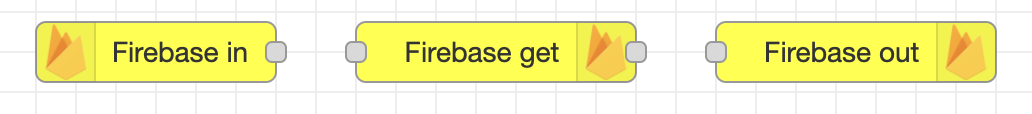
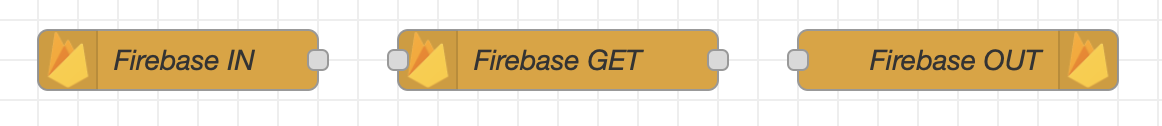
0.0.2 (#1)

diff --git a/src/database.js b/src/database.js
@@ -1,4 +1,4 @@
-const { initializeApp } = require("firebase/app");
+const { deleteApp, initializeApp } = require("firebase/app");
 const { getAuth, signInAnonymously, signInWithEmailAndPassword } = require("firebase/auth");
 const { getDatabase } = require("firebase/database");
 
@@ -16,9 +16,15 @@ module.exports = function (RED) {
 
 		const auth = getAuth(app);
 
-		function setNodeStatus(state) {
+		function setNodesConnected() {
 			for (const n of node.nodes) {
-				n.status(state);
+				n.status({ fill: "green", shape: "dot", text: "connected" });
+			}
+		}
+
+		function setNodesDisconnected() {
+			for (const n of node.nodes) {
+				n.status({ fill: "red", shape: "dot", text: "disconnected" });
 			}
 		}
 
@@ -26,27 +32,38 @@ module.exports = function (RED) {
 			// TODO: Add other authentication methods
 			switch (config.authType) {
 				case "anonymous":
-					signInAnonymously(auth).then(() => setNodeStatus({ fill: "green", shape: "dot", text: "connected" }));
+					signInAnonymously(auth).then(() => setNodesConnected());
 					break;
 				case "email":
 					// NOTE: Fails with an error if the email address and password do not match!
 					signInWithEmailAndPassword(auth, this.credentials.email, this.credentials.password).then(() =>
-						setNodeStatus({ fill: "green", shape: "dot", text: "connected" })
+						setNodesConnected()
 					);
 					break;
 			}
 		} catch (error) {
 			node.error(error);
-			setNodeStatus({ fill: "red", shape: "dot", text: "disconnected" });
+			setNodesDisconnected();
 		}
 
 		const database = getDatabase(app);
 
 		this.app = app;
 		this.db = database;
+
+		node.on("close", function (done) {
+			if (!node.app) {
+				done();
+				return;
+			}
+
+			deleteApp(node.app)
+				.then(() => done())
+				.catch((error) => done(error));
+		});
 	}
 
-	RED.nodes.registerType("database", DatabaseNode, {
+	RED.nodes.registerType("database-config", DatabaseNode, {
 		credentials: {
 			apiKey: { type: "text" },
 			email: { type: "text" },

diff --git a/src/firebase-out.js b/src/firebase-out.js
@@ -7,37 +7,43 @@ module.exports = function (RED) {
 		this.database = RED.nodes.getNode(config.database);
 		this.database.nodes.push(this);
 
-		this.on("input", function (msg) {
-			if (config.pathType === "msg") {
-				if (msg[config.path] === undefined) {
-					this.error("The msg containing the PATH do not exist!");
-					return;
-				}
-				if (typeof msg[config.path] !== "string") {
-					this.error("PATH must be a string!");
-					return;
-				}
-			}
-
+		this.on("input", function (msg, send, done) {
 			const path = config.pathType === "msg" ? msg[config.path] : config.path;
+
+			if (path === undefined) {
+				done("The msg containing the PATH do not exist!");
+				return;
+			}
+			if (!path) {
+				done("PATH must be non-empty string!");
+				return;
+			}
+			if (typeof path !== "string") {
+				done("PATH must be a string!");
+				return;
+			}
+			if (path.match(/[.#$\[\]]/g)) {
+				done(`PATH must not contain ".", "#", "$", "[", or "]"`);
+				return;
+			}
 
 			try {
 				switch (config.queryType) {
 					case "set":
-						set(ref(this.database.db, path), msg.payload);
+						set(ref(this.database.db, path), msg.payload).then(() => done());
 						break;
 					case "push":
-						push(ref(this.database.db, path), msg.payload);
+						push(ref(this.database.db, path), msg.payload).then(() => done());
 						break;
 					case "update":
-						update(ref(this.database.db, path), msg.payload);
+						update(ref(this.database.db, path), msg.payload).then(() => done());
 						break;
 					case "remove":
-						remove(ref(this.database.db, path));
+						remove(ref(this.database.db, path)).then(() => done());
 						break;
 				}
 			} catch (error) {
-				this.warn(error);
+				done(error);
 			}
 		});
 	}

diff --git a/src/firebase-get.js b/src/firebase-get.js
@@ -7,19 +7,17 @@ module.exports = function (RED) {
 		this.database = RED.nodes.getNode(config.database);
 		this.database.nodes.push(this);
 
-		this.on("input", function (msg) {
-			if (config.pathType === "msg") {
-				if (msg[config.path] === undefined) {
-					this.error("The msg containing the PATH do not exist!");
-					return;
-				}
-				if (typeof msg[config.path] !== "string") {
-					this.error("PATH must be a string!");
-					return;
-				}
-			}
+		this.on("input", function (msg, send, done) {
+			const path = (config.pathType === "msg" ? msg[config.path] : config.path) || undefined;
 
-			const path = config.pathType === "msg" ? msg[config.path] : config.path;
+			if (path && typeof msg[config.path] !== "string") {
+				done("PATH must be a string!");
+				return;
+			}
+			if (path?.match(/[.#$\[\]]/g)) {
+				done(`PATH must not contain ".", "#", "$", "[", or "]"`);
+				return;
+			}
 
 			get(ref(this.database.db, path))
 				.then((snapshot) => {
@@ -29,9 +27,10 @@ module.exports = function (RED) {
 					const topic = ref.split(snapshot.ref.root.toString()).pop();
 					const payload = config.outputType === "auto" ? snapshot.val() : JSON.stringify(snapshot.val());
 
-					this.send({ payload: payload, topic: topic });
+					send({ payload: payload, topic: topic });
+					done();
 				})
-				.catch((error) => this.warn(error));
+				.catch((error) => done(error));
 		});
 	}
 

diff --git a/src/firebase-in.js b/src/firebase-in.js
@@ -7,19 +7,30 @@ module.exports = function (RED) {
 		this.database = RED.nodes.getNode(config.database);
 		this.database.nodes.push(this);
 
-		onValue(ref(this.database.db, config.path), (snapshot) => {
-			if (!snapshot.exists()) return;
+		const path = config.path?.toString() || undefined;
+		if (path?.match(/[.#$\[\]]/g)) {
+			this.error(`PATH must not contain ".", "#", "$", "[", or "]"`);
+			return;
+		}
 
-			const ref = snapshot.ref.toString();
-			const topic = ref.split(snapshot.ref.root.toString()).pop();
-			const payload = config.outputType === "auto" ? snapshot.val() : JSON.stringify(snapshot.val());
+		onValue(
+			ref(this.database.db, path),
+			(snapshot) => {
+				if (!snapshot.exists()) return;
 
-			this.send({ payload: payload, topic: topic });
-		});
+				const ref = snapshot.ref.toString();
+				const topic = ref.split(snapshot.ref.root.toString()).pop();
+				const payload = config.outputType === "auto" ? snapshot.val() : JSON.stringify(snapshot.val());
+
+				this.send({ payload: payload, topic: topic });
+			},
+			(error) => this.warn(error)
+		);
 
 		// Remove the old listener to save the new one
+		// If the node is disabled/deleted there will be no call to the onValue function
 		this.on("close", function () {
-			off(ref(this.database.db, config.path));
+			off(ref(this.database.db, path));
 		});
 	}
 

diff --git a/src/database.html b/src/database.html
@@ -1,11 +1,11 @@
 <script type="text/javascript">
-	RED.nodes.registerType("database", {
+	RED.nodes.registerType("database-config", {
 		category: "config",
 		credentials: {
-			apiKey: { type: "text" },
+			apiKey: { type: "text", validate: RED.validators.regex(/\S/) },
 			email: { type: "text", validate: RED.validators.regex(/^\w+([\.-]?\w+)*@\w+([\.-]?\w+)*(\.\w{2,3})+$/) },
 			json: { type: "password" },
-			password: { type: "password" },
+			password: { type: "password", validate: RED.validators.regex(/\S/) },
 			secret: { type: "password" },
 			url: {
 				type: "text",
@@ -65,7 +65,7 @@
 	}
 </script>
 
-<script type="text/html" data-template-name="database">
+<script type="text/html" data-template-name="database-config">
 	<div class="form-row">
 		<label for="node-config-input-name"><i class="fa fa-tag"></i> Name</label>
 		<input type="text" id="node-config-input-name" style="width:70%" />
@@ -121,7 +121,7 @@
 
 	<div class="firebase-text-divider">Tips</div>
 
-	<div class="form-tips" id="database-tips">
+	<div class="form-tips" id="database-config-tips">
 		<p>The <code>API Key</code> can be found in the project settings.</p>
 		<p>
 			The <code>URL</code> is the URL of Realtime Database, this differs by geographic location, in the United States it

diff --git a/src/firebase-get.html b/src/firebase-get.html
@@ -1,14 +1,19 @@
 <script type="text/javascript">
 	RED.nodes.registerType("firebase-get", {
-		align: "right",
-		category: "function",
-		color: "#FFFF00",
+		align: "left",
+		category: "Firebase",
+		color: "#e2a12b",
 		defaults: {
 			name: { value: "" },
-			database: { value: "", type: "database" },
-			outputType: { value: "auto" },
-			path: { value: "topic" },
-			pathType: { value: "msg" },
+			database: { value: "", type: "database-config" },
+			outputType: { value: "auto", validate: RED.validators.regex(/(auto|string)/) },
+			path: {
+				value: "topic",
+				validate: function (v) {
+					return v.match(/[.#$\[\]]/g) ? false : true;
+				},
+			},
+			pathType: { value: "msg", validate: RED.validators.regex(/(msg|str)/) },
 		},
 		inputs: 1,
 		outputs: 1,
@@ -22,7 +27,6 @@
 		},
 		oneditprepare: function () {
 			$("#node-input-path").typedInput({
-				default: "str",
 				typeField: $("#node-input-pathType"),
 				types: ["str", "msg"],
 			});

diff --git a/src/firebase-out.html b/src/firebase-out.html
@@ -1,14 +1,14 @@
 <script type="text/javascript">
 	RED.nodes.registerType("firebase-out", {
 		align: "right",
-		category: "function",
-		color: "#FFFF00",
+		category: "Firebase",
+		color: "#e2a12b",
 		defaults: {
 			name: { value: "" },
-			database: { value: "", type: "database" },
-			path: { value: "topic" },
-			pathType: { value: "msg" },
-			queryType: { value: "set" },
+			database: { value: "", type: "database-config" },
+			path: { value: "topic", validate: RED.validators.regex(/\S/) },
+			pathType: { value: "msg", validate: RED.validators.regex(/(msg|str)/) },
+			queryType: { value: "set", validate: RED.validators.regex(/(set|push|update|remove)/) },
 		},
 		inputs: 1,
 		outputs: 0,
@@ -22,7 +22,6 @@
 		},
 		oneditprepare: function () {
 			$("#node-input-path").typedInput({
-				default: "str",
 				typeField: $("#node-input-pathType"),
 				types: ["str", "msg"],
 			});

diff --git a/src/firebase-in.html b/src/firebase-in.html
@@ -1,13 +1,18 @@
 <script type="text/javascript">
 	RED.nodes.registerType("firebase-in", {
 		align: "left",
-		category: "function",
-		color: "#FFFF00",
+		category: "Firebase",
+		color: "#e2a12b",
 		defaults: {
 			name: { value: "" },
-			database: { value: "", type: "database" },
-			outputType: { value: "auto" },
-			path: { value: "test/stream", require: true },
+			database: { value: "", type: "database-config" },
+			outputType: { value: "auto", validate: RED.validators.regex(/(auto|string)/) },
+			path: {
+				value: "test/stream",
+				validate: function (v) {
+					return v.match(/[.#$\[\]]/g) ? false : true;
+				},
+			},
 		},
 		inputs: 0,
 		outputs: 1,
